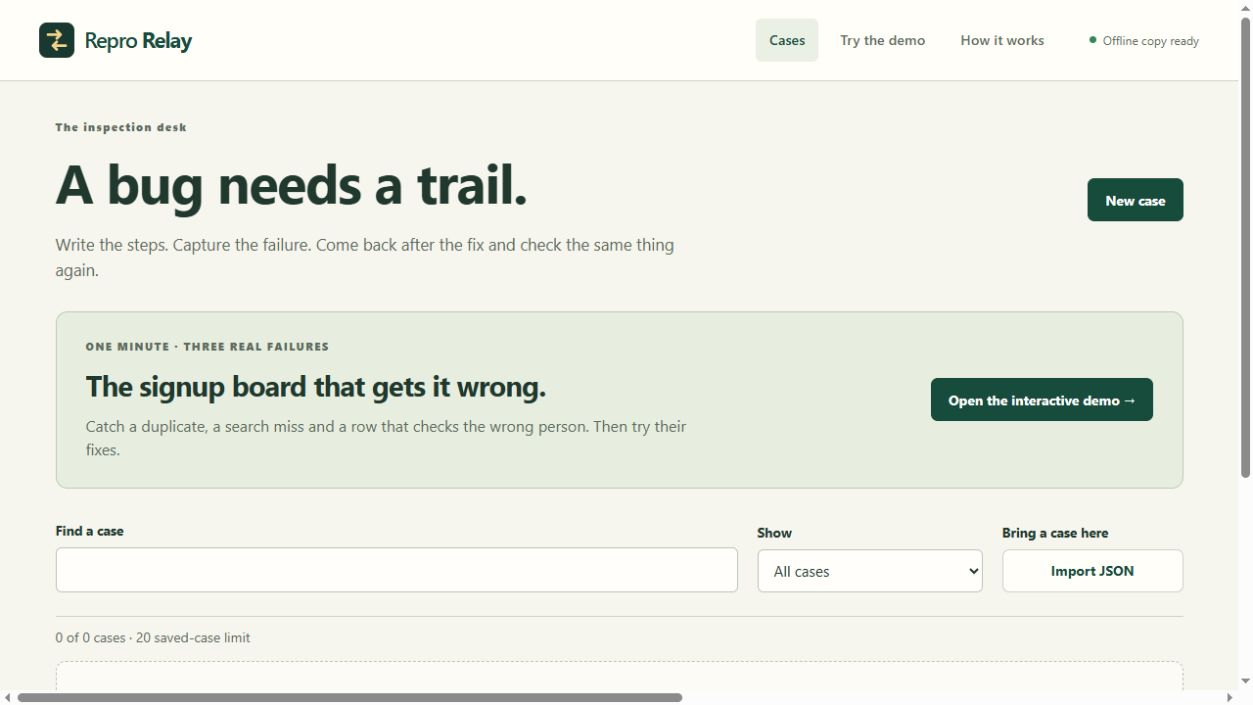
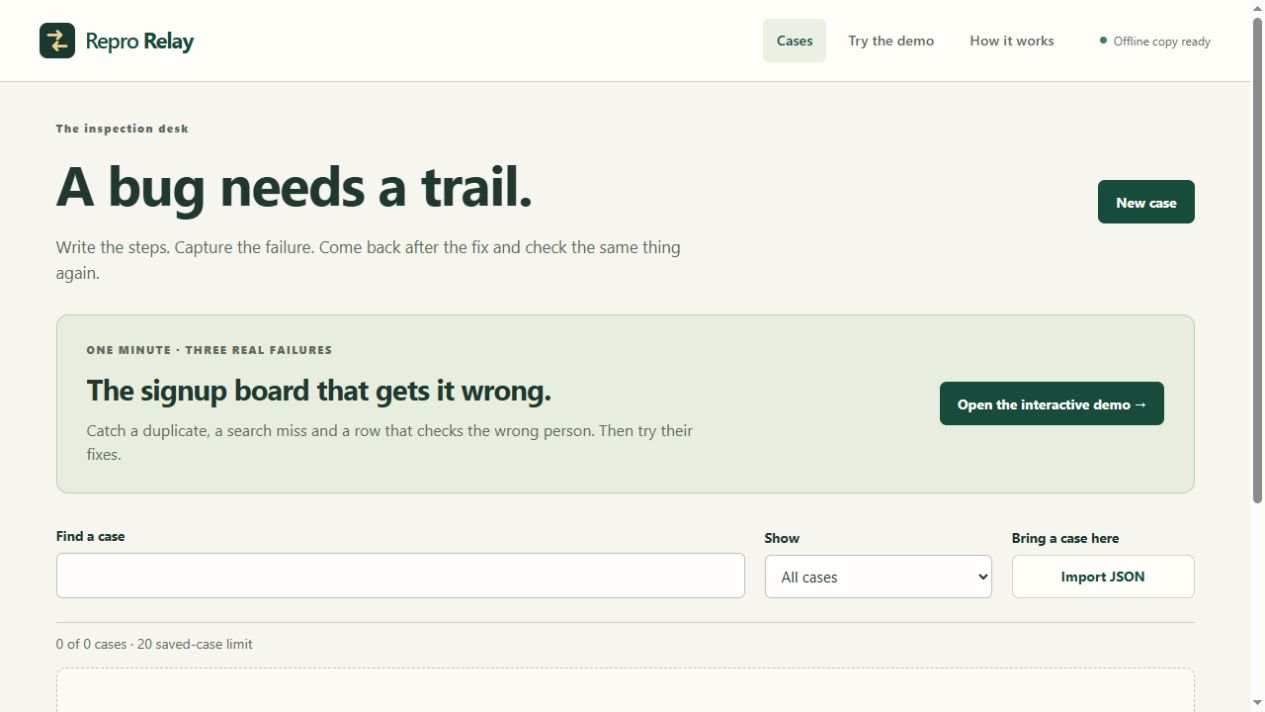
Embed shared evidence once and keep preview links inside the report
Codex-assisted fix. Fifteen core tests, strict types and offline build checks pass. Actual report reduced from 812923 to 410375 bytes; accessibility click reached its decoded redacted image. Keep Stardance tracker and shipping limits explicit.

diff --git a/src/report.ts b/src/report.ts
@@ -6,7 +6,7 @@ import { compareRuns, changeLabel } from './compare.ts';
 export const escapeHtml = (value: string) => value.replace(/[&<>"']/g, char => ({ '&':'&amp;', '<':'&lt;', '>':'&gt;', '"':'&quot;', "'":'&#39;' }[char]!));
 const e = escapeHtml;
 function link(label: string, value: string): string { const url = safeUrl(value); return url ? `<a href="${e(url)}" rel="noopener noreferrer">${e(label)}</a>` : ''; }
-function runHtml(run: Run, capsule: Capsule, index: number): string {
+function runHtml(run: Run, capsule: Capsule, index: number, preview: boolean): string {
   const baseline = capsule.runs.find(item => item.id === run.baselineId);
   const comparison = baseline ? `<h3>Compared with run ${capsule.runs.indexOf(baseline)+1}</h3><ul>${compareRuns(baseline,run).map(row => `<li><strong>${e(changeLabel[row.change])}</strong> — ${e(row.action)}<br>Before: ${e(row.before ? outcomeLabel[row.before] : 'Missing')} · After: ${e(row.after ? outcomeLabel[row.after] : 'Missing')}</li>`).join('')}</ul>` : '';
   const snapshotLinks = [link('Demo at capture',run.spec.demoUrl),link('Source at capture',run.spec.sourceUrl)].filter(Boolean).join(' · ');
@@ -14,13 +14,17 @@ function runHtml(run: Run, capsule: Capsule, index: number): string {
     const result = run.observations.find(row => row.stepId === step.id)!;
     return `<li><h3>${e(step.action)}</h3><p><strong>Expected:</strong> ${e(step.expected)}</p><p><strong>${e(outcomeLabel[result.outcome])}:</strong> ${e(result.actual || 'No observation recorded')}</p>${result.evidenceIds.map(imageId => {
       const image = capsule.evidence.find(item => item.id === imageId)!;
-      return `<figure><img src="${e(image.png)}" width="${image.width}" height="${image.height}" alt="${e(image.caption || 'Processed screenshot')}"><figcaption>${e(image.caption || 'Processed screenshot')}<details><summary>SHA-256 of processed bytes</summary><code>${image.sha256}</code></details></figcaption></figure>`;
+      return `<p><a href="${preview ? 'about:srcdoc' : ''}#evidence-${e(image.id)}">View evidence: ${e(image.caption || 'Processed screenshot')}</a></p>`;
     }).join('')}</li>`;
   }).join('')}</ol>${comparison}</section>`;
 }
-export function buildReport(capsule: Capsule): string {
+function evidenceIndex(capsule: Capsule): string {
+  if (!capsule.evidence.length) return '';
+  return `<section><h2>Evidence index</h2><p>Only processed PNGs are included. Original uploads are not stored by Repro Relay. Each image is embedded once; observation links above point to it here.</p>${capsule.evidence.map(image => `<figure id="evidence-${e(image.id)}"><img src="${e(image.png)}" alt="${e(image.caption || 'Processed screenshot')}" width="${image.width}" height="${image.height}"><figcaption>${e(image.caption || 'Processed screenshot')}<details><summary>SHA-256 of processed bytes</summary><code>${image.sha256}</code></details></figcaption></figure>`).join('')}</section>`;
+}
+export function buildReport(capsule: Capsule, preview = false): string {
   validateCapsule(capsule);
-  return `<!doctype html><html lang="en"><head><meta charset="utf-8"><meta name="viewport" content="width=device-width,initial-scale=1"><meta http-equiv="Content-Security-Policy" content="default-src 'none'; img-src data:; style-src 'unsafe-inline'; base-uri 'none'; form-action 'none'"><title>${e(capsule.spec.title)} · Repro Relay</title><style>body{max-width:880px;margin:auto;padding:32px 20px;background:#faf9f4;color:#1a2f27;font:16px/1.6 system-ui,sans-serif;overflow-wrap:anywhere}h1,h2,h3{line-height:1.25}header,section{border-bottom:1px solid #c9d2c6;padding-bottom:24px;margin-bottom:28px}h1{font-size:36px}h2{font-size:24px}h3{font-size:18px}li{margin:14px 0}p{white-space:pre-wrap}img{display:block;max-width:100%;height:auto;border:1px solid #a1b2a7;border-radius:8px}figure{margin:18px 0}figcaption,footer{font-size:14px}a{color:#07533b}code{word-break:break-all}summary{cursor:pointer}aside{padding:14px;background:#eee9d7;border-radius:8px}@media print{body{background:white;padding:0}section{break-inside:avoid}details{display:block}a{color:black}}</style></head><body><header><p>REPRO RELAY · PORTABLE HANDOFF</p><h1>${e(capsule.spec.title)}</h1><p>${e(capsule.spec.summary)}</p><p>${link('Project demo',capsule.spec.demoUrl)} ${link('Source code',capsule.spec.sourceUrl)}</p><aside>This is a read-only copy of recorded manual observations. A green result is not an independent verification. Completed snapshots preserve the criteria used at that time. SHA-256 detects changed image bytes; it does not prove who captured them. This file has no scripts or network dependencies. External project links open only if you choose them.</aside></header><section><h2>Current reproduction steps</h2><p><strong>Version:</strong> ${e(capsule.spec.version || 'Not recorded')}<br><strong>Environment:</strong> ${e(capsule.spec.environment || 'Not recorded')}</p><p><strong>Preconditions:</strong> ${e(capsule.spec.preconditions || 'None recorded')}</p><ol>${capsule.spec.steps.map(step => `<li><h3>${e(step.action)}</h3><p>Expected: ${e(step.expected)}</p></li>`).join('')}</ol></section>${capsule.runs.map((run,index) => runHtml(run,capsule,index)).join('')}${capsule.evidence.length ? `<section><h2>Evidence index</h2><p>Only processed PNGs are included. Original uploads are not stored by Repro Relay.</p>${capsule.evidence.map(image => `<details><summary>${e(image.caption || 'Processed screenshot')} · ${image.width} × ${image.height}</summary><figure><img src="${e(image.png)}" alt="${e(image.caption || 'Processed screenshot')}" width="${image.width}" height="${image.height}"><figcaption><code>${image.sha256}</code></figcaption></figure></details>`).join('')}</section>` : ''}<footer>Repro Relay schema v1 · Case ${e(capsule.id)} · Updated ${e(capsule.updatedAt)}<br>Made for a failure, a fix and the check that follows.</footer></body></html>`;
+  return `<!doctype html><html lang="en"><head><meta charset="utf-8"><meta name="viewport" content="width=device-width,initial-scale=1"><meta http-equiv="Content-Security-Policy" content="default-src 'none'; img-src data:; style-src 'unsafe-inline'; base-uri 'none'; form-action 'none'"><title>${e(capsule.spec.title)} · Repro Relay</title><style>body{max-width:880px;margin:auto;padding:32px 20px;background:#faf9f4;color:#1a2f27;font:16px/1.6 system-ui,sans-serif;overflow-wrap:anywhere}h1,h2,h3{line-height:1.25}header,section{border-bottom:1px solid #c9d2c6;padding-bottom:24px;margin-bottom:28px}h1{font-size:36px}h2{font-size:24px}h3{font-size:18px}li{margin:14px 0}p{white-space:pre-wrap}img{display:block;max-width:100%;height:auto;border:1px solid #a1b2a7;border-radius:8px}figure{margin:18px 0}figcaption,footer{font-size:14px}a{color:#07533b}code{word-break:break-all}summary{cursor:pointer}aside{padding:14px;background:#eee9d7;border-radius:8px}@media print{body{background:white;padding:0}section{break-inside:avoid}details{display:block}a{color:black}}</style></head><body><header><p>REPRO RELAY · PORTABLE HANDOFF</p><h1>${e(capsule.spec.title)}</h1><p>${e(capsule.spec.summary)}</p><p>${link('Project demo',capsule.spec.demoUrl)} ${link('Source code',capsule.spec.sourceUrl)}</p><aside>This is a read-only copy of recorded manual observations. A green result is not an independent verification. Completed snapshots preserve the criteria used at that time. SHA-256 detects changed image bytes; it does not prove who captured them. This file has no scripts or network dependencies. External project links open only if you choose them.</aside></header><section><h2>Current reproduction steps</h2><p><strong>Version:</strong> ${e(capsule.spec.version || 'Not recorded')}<br><strong>Environment:</strong> ${e(capsule.spec.environment || 'Not recorded')}</p><p><strong>Preconditions:</strong> ${e(capsule.spec.preconditions || 'None recorded')}</p><ol>${capsule.spec.steps.map(step => `<li><h3>${e(step.action)}</h3><p>Expected: ${e(step.expected)}</p></li>`).join('')}</ol></section>${capsule.runs.map((run,index) => runHtml(run,capsule,index,preview)).join('')}${evidenceIndex(capsule)}<footer>Repro Relay schema v1 · Case ${e(capsule.id)} · Updated ${e(capsule.updatedAt)}<br>Made for a failure, a fix and the check that follows.</footer></body></html>`;
 }
 export function fileStem(title: string): string { return title.toLowerCase().replace(/[^a-z0-9]+/g,'-').replace(/^-|-$/g,'').slice(0,64) || 'repro-case'; }
 export function download(contents: string, filename: string, type: string): void {

diff --git a/src/main.ts b/src/main.ts
@@ -54,8 +54,8 @@ function downloadHtml(capsule:Capsule) { download(buildReport(capsule),fileStem(
 function preview(capsule:Capsule,kind:'json'|'html') {
   validateCapsule(capsule);
   const dialogId = 'export-preview-title';
-  const content = kind === 'json' ? h('div',{},h('label',{for:'backup-json'},'Backup JSON'),h('textarea',{id:'backup-json',readonly:true,spellcheck:'false',class:'backup-json',value:JSON.stringify(capsule,null,2)})) : h('iframe',{class:'report-frame',title:'Read-only HTML report preview',sandbox:'',srcdoc:buildReport(capsule)});
-  const dialog = h('dialog',{'aria-labelledby':dialogId,class:'export-preview'},h('div',{class:'section-title'},h('h2',{id:dialogId},kind === 'json' ? 'Your portable backup' : 'Your portable report'),button('Close preview',() => dialog.close(),'quiet')),h('p',{class:'muted'},kind === 'json' ? 'This validated backup can be imported as a separate case. You can also select and copy this text if downloads are unavailable.' : 'A read-only preview of the same HTML you can download. Processed images are embedded; the report needs no scripts or internet.'),content,button(kind === 'json' ? 'Download this JSON' : 'Download this HTML',() => kind === 'json' ? downloadJson(capsule) : downloadHtml(capsule),'primary'));
+  const content = kind === 'json' ? h('div',{},h('label',{for:'backup-json'},'Backup JSON'),h('textarea',{id:'backup-json',readonly:true,spellcheck:'false',class:'backup-json',value:JSON.stringify(capsule,null,2)})) : h('iframe',{class:'report-frame',title:'Read-only HTML report preview',sandbox:'',srcdoc:buildReport(capsule,true)});
+  const dialog = h('dialog',{'aria-labelledby':dialogId,class:'export-preview'},h('div',{class:'section-title'},h('h2',{id:dialogId},kind === 'json' ? 'Your portable backup' : 'Your portable report'),button('Close preview',() => dialog.close(),'quiet')),h('p',{class:'muted'},kind === 'json' ? 'This validated backup can be imported as a separate case. You can also select and copy this text if downloads are unavailable.' : 'A read-only preview of your portable report. Processed images are embedded; the report needs no scripts or internet.'),content,button(kind === 'json' ? 'Download this JSON' : 'Download this HTML',() => kind === 'json' ? downloadJson(capsule) : downloadHtml(capsule),'primary'));
   dialog.addEventListener('close',() => dialog.remove()); document.body.append(dialog); dialog.showModal(); dialog.querySelector<HTMLButtonElement>('button')?.focus();
 }
 function exports(capsule:Capsule) { return h('div',{class:'actions'},button('JSON backup',() => task(async() => downloadJson(capsule))),button('HTML report',() => task(async() => downloadHtml(capsule))),button('Preview backup',() => task(async() => preview(capsule,'json')),'quiet'),button('Preview report',() => task(async() => preview(capsule,'html')),'quiet')); }

diff --git a/test/core.test.ts b/test/core.test.ts
@@ -100,6 +100,24 @@ test('HTML reports escape script-like text, contain processed images and have no
   assert.ok(html.includes('href="https://example.com/source-v1"')); assert.ok(html.includes('href="https://example.com/source-v2"')); assert.equal(saved.runs[0].spec.sourceUrl,'https://example.com/source-v1');
   assert.ok(html.includes('&lt;script&gt;')); assert.ok(html.includes(tinyPng)); assert.ok(html.includes("default-src 'none'")); assert.ok(!/<script[\s>]/i.test(html)); assert.ok(!/<img[^>]+src="https?:/i.test(html)); assert.ok(!html.includes('onerror=alert(1)>')); assert.ok(html.includes('Not tested')); assert.ok(!html.includes('<script>oops'));
 });
+test('shared evidence is embedded once with working references across completed runs', async () => {
+  let c = await withImage();
+  for (let index=0; index<3; index++) {
+    const draft = startRun(c,c.runs.at(-1)?.id);
+    draft.observations.forEach(row => { row.evidenceIds = ['shot']; });
+    c = finishRun(c,draft);
+  }
+  const html = buildReport(c);
+  assert.equal((html.match(/<img\s/g) || []).length,1);
+  assert.equal((html.match(/href="#evidence-shot"/g) || []).length,9);
+  assert.equal((html.match(/id="evidence-shot"/g) || []).length,1);
+  assert.equal(html.split(tinyPng).length - 1,1);
+  assert.ok(html.includes('SHA-256 of processed bytes'));
+  const preview = buildReport(c,true);
+  assert.equal((preview.match(/href="about:srcdoc#evidence-shot"/g) || []).length,9);
+  assert.equal(preview.replaceAll('about:srcdoc#evidence-','#evidence-'),html);
+});
+
 test('all three fictional bugs fail in broken mode and pass with the actual fixed implementation', () => {
   let broken = register(register(seedRows(),'Alex','broken'),'Alex','broken'); let fixed = register(register(seedRows(),'Alex','fixed'),' Alex ','fixed');
   assert.equal(broken.filter(row => row.name === 'Alex').length,2); assert.equal(fixed.filter(row => row.name === 'Alex').length,1);

diff --git a/docs/QA.md b/docs/QA.md
@@ -20,6 +20,7 @@ Run `npm run verify` on Node 24. The native Node suite covers:
 12. PNG/JPEG signature, truncation and pre-decode size limits.
 13. Escaping script-like report text, excluding scripts/remote assets and keeping captured build links after current links change.
 14. The three actual broken/fixed demo implementations.
+15. Repeated evidence references across three completed runs embedding one image with nine working report links.
 
 The production build also checks local asset references, script CSP, service-worker syntax, existing precache assets and request scope. `npm ci --ignore-scripts` installs only locked development dependencies. No runtime packages are installed.
 
@@ -48,6 +49,7 @@ The production build also checks local asset references, script CSP, service-wor
 | Mobile comparison | 360px viewport, no horizontal overflow or out-of-bounds controls |
 | Home-page overflow fix | Locally: 1280px viewport / 1265px page and 360px viewport / 345px page; hidden input is 1px |
 | Captured build links | Labelled synthetic fixture: run history and report retained v1 links while the current case used v2; all fixture outcomes were Not tested |
+| Compact evidence report | Actual 3-run QA report: 1 image / 1 reference, 410,375 bytes instead of 812,923 bytes. Preview anchor reached the decoded 1265 × 712 image |
 | Offline app | Cached production shell reloaded with network emulation set offline |
 | Offline report preview | Script-free report and embedded image displayed while offline |
 | JSON / HTML downloads | Browser download events reported completion |
@@ -64,4 +66,6 @@ Storage-open and case-limit failures are automated tests. A real browser disk-qu
 
 The GitHub Pages deployment was opened with no Repro Relay cases already saved on that origin. Broken v1 reproduced duplicate Alex rows, zero results for the spaced Mina query and Mina checked instead of filtered Sam. Fixed v2 produced one Alex row, Mina as the single match and only Sam checked. The app shell reloaded while that tab's network was emulated offline; networking was restored afterwards. No warning/error console entries were observed in that session. The public home screenshot was also used as the Stardance banner.
 
-The final overflow correction and snapshot-link display receive a focused public check after the updated deployment. Tracker and mission status are recorded in [SHIP_STATUS.md](SHIP_STATUS.md).
+The final overflow correction was also checked on the public origin at desktop and 360px. The latest shared-image export receives a focused public check after deployment. Tracker and mission status are recorded in [SHIP_STATUS.md](SHIP_STATUS.md).
+
+The final report preview uses `about:srcdoc#...` anchors; downloaded HTML uses local `#...` anchors. The generated content is otherwise the same. Frame-scoped locator clicks/keypresses timed out in the automation interface. The browser accessibility click successfully activated the visible link: the frame URL acquired the evidence fragment, and the decoded image reached the top of the frame. This was a tool interaction limitation, not a claimed unsuccessful pass.

diff --git a/docs/DEVLOG_DRAFT.md b/docs/DEVLOG_DRAFT.md
@@ -14,7 +14,7 @@ Screenshots can be processed before they become evidence. Drag opaque rectangles
 
 The handoff is an editable JSON backup or a script-free HTML report with processed images inside it. Valid imports create separate cases. Invalid JSON and a tampered image digest left existing cases intact. The report preview and cached app were tried offline. The browser automation tool blocks opening local `file:` URLs, so the downloaded report was not opened from disk through that tool; the exact complete HTML, embedded image and offline preview were checked instead.
 
-The final UI pass fixed a skip-link routing problem, a squeezed mobile toast, replacement of an unfinished retest and a hidden file input that caused horizontal overflow. Run history and reports keep the original build links too. The 14 core tests, strict TypeScript check and offline production build checks pass. The README includes setup instructions, real decisions and the practical testing limits.
+The final UI pass fixed a skip-link routing problem, a squeezed mobile toast, replacement of an unfinished retest and a hidden file input that caused horizontal overflow. Run history and reports keep the original build links too. Shared evidence is embedded once in the HTML report, with links from each relevant observation. The 15 core tests, strict TypeScript check and offline production build checks pass. The README includes setup instructions, real decisions and the practical testing limits.
 
 Aarav chose the direction and scope. Codex implemented most of the application, tests, build setup and documentation, and operated the recorded browser checks. This is substantially AI-assisted work. No human-only authorship, eligible duration, reviewer approval or Stardust reward is claimed.
 
@@ -29,6 +29,8 @@ Aarav chose the direction and scope. Codex implemented most of the application, 
 - [Changed criteria and incomplete retest](screenshots/criteria-comparison.jpg)
 - [Redaction editor](screenshots/redaction-preview.jpg)
 - [Offline report preview](screenshots/offline-report.jpg)
+- [Compact report with linked processed evidence](screenshots/compact-report.jpg)
 - [360px comparison](screenshots/mobile-comparison.jpg)
+- [360px home page](screenshots/mobile-home.jpg)
 
 The comparison with changed criteria is a clearly labelled QA fixture, not another released board version. All data shown is fictional.

diff --git a/docs/SHIP_STATUS.md b/docs/SHIP_STATUS.md
@@ -4,13 +4,14 @@ Updated 30 September 2026. This record separates the working product from tracke
 
 ## Product
 
-- Local production build, strict TypeScript, 14 core tests and offline build checks pass.
+- Local production build, strict TypeScript, 15 core tests and offline build checks pass.
 - The three deliberate failures and corresponding fixes were checked in the browser.
 - Snapshot comparison, private evidence processing, valid/invalid imports, keyboard flow and offline preview checks are recorded in [QA.md](QA.md).
 - Source, setup instructions, assistance disclosure, original banner and actual app screenshots are included.
 - [Public source](https://github.com/aaravkatiyar55-gif/repro-relay) and [live app](https://aaravkatiyar55-gif.github.io/repro-relay/) are available. The initial [Pages verification and deployment](https://github.com/aaravkatiyar55-gif/repro-relay/actions/runs/36704846474) succeeded.
 - On the fresh public origin, all three broken failures reproduced and all three corresponding fixed behaviors passed. The deployed shell reloaded offline, networking was restored, and no warning/error console entries were observed in that session.
-- A final home-page overflow fix and captured-link display are locally verified; final deployment verification is recorded below after the updated build goes live.
+- The [updated Pages deployment](https://github.com/aaravkatiyar55-gif/repro-relay/actions/runs/36706283596) passed. Public layout checks confirmed a 1280px viewport / 1265px page and 360px viewport / 345px page. The hidden input is 1px. The updated bundle also reloaded offline; emulation was cleared and networking restored. Captured v1 links remain in the run history/report beside the current case's v2 links.
+- The final shared-image report optimization is verified locally and receives a focused production check after deployment.
 
 ## Tracker and submission
 

diff --git a/docs/BUILD_NOTES.md b/docs/BUILD_NOTES.md
@@ -22,6 +22,8 @@ This is a new implementation of a familiar problem. Bug-reporting products alrea
 4. A mobile success toast squeezed “Dismiss” into a narrow column. The button now keeps its width.
 5. Starting another retest could replace an unfinished run. The app now returns to that existing draft and explains that it needs to be completed or discarded first.
 6. Fresh production inspection caught horizontal overflow on the home page: a general input rule overrode the hidden import input's width. A more specific rule now keeps that input inside its control, and it is excluded from the tab order. Desktop and 360px home pages are checked after the fix.
+7. A report could embed the same screenshot repeatedly when several runs referenced it. The report now embeds each processed image once in its evidence index and links observations to that image. A regression check uses nine references across three runs and expects one embedded image.
+8. Fragment links in the sandboxed `srcdoc` preview initially resolved against the outer app. The preview now uses `about:srcdoc#...` links, as described in [MDN's iframe documentation](https://developer.mozilla.org/en-US/docs/Web/HTML/Reference/Elements/iframe#embedding_source_code_in_an_iframe). Downloaded reports retain ordinary local fragment links. The report still has no scripts.
 
 ## The fictional demonstration
 

diff --git a/README.md b/README.md
@@ -58,7 +58,7 @@ npm run verify
 npm run preview
 ```
 
-`verify` runs 14 core tests, strict TypeScript checking, the production build and checks on the generated offline shell. The cases include snapshot isolation, comparison edge cases, malformed imports, storage failures, safe report text and opaque redaction. Browser checks cover the real demo, reloads, image processing, imports, keyboard controls, mobile layout and offline previews. [QA.md](docs/QA.md) records what was tested and what still has a practical limit.
+`verify` runs 15 core tests, strict TypeScript checking, the production build and checks on the generated offline shell. The cases include snapshot isolation, comparison edge cases, malformed imports, storage failures, safe report text, shared-image exports and opaque redaction. Browser checks cover the real demo, reloads, image processing, imports, keyboard controls, mobile layout and offline previews. [QA.md](docs/QA.md) records what was tested and what still has a practical limit.
 
 ## Where things live
 
